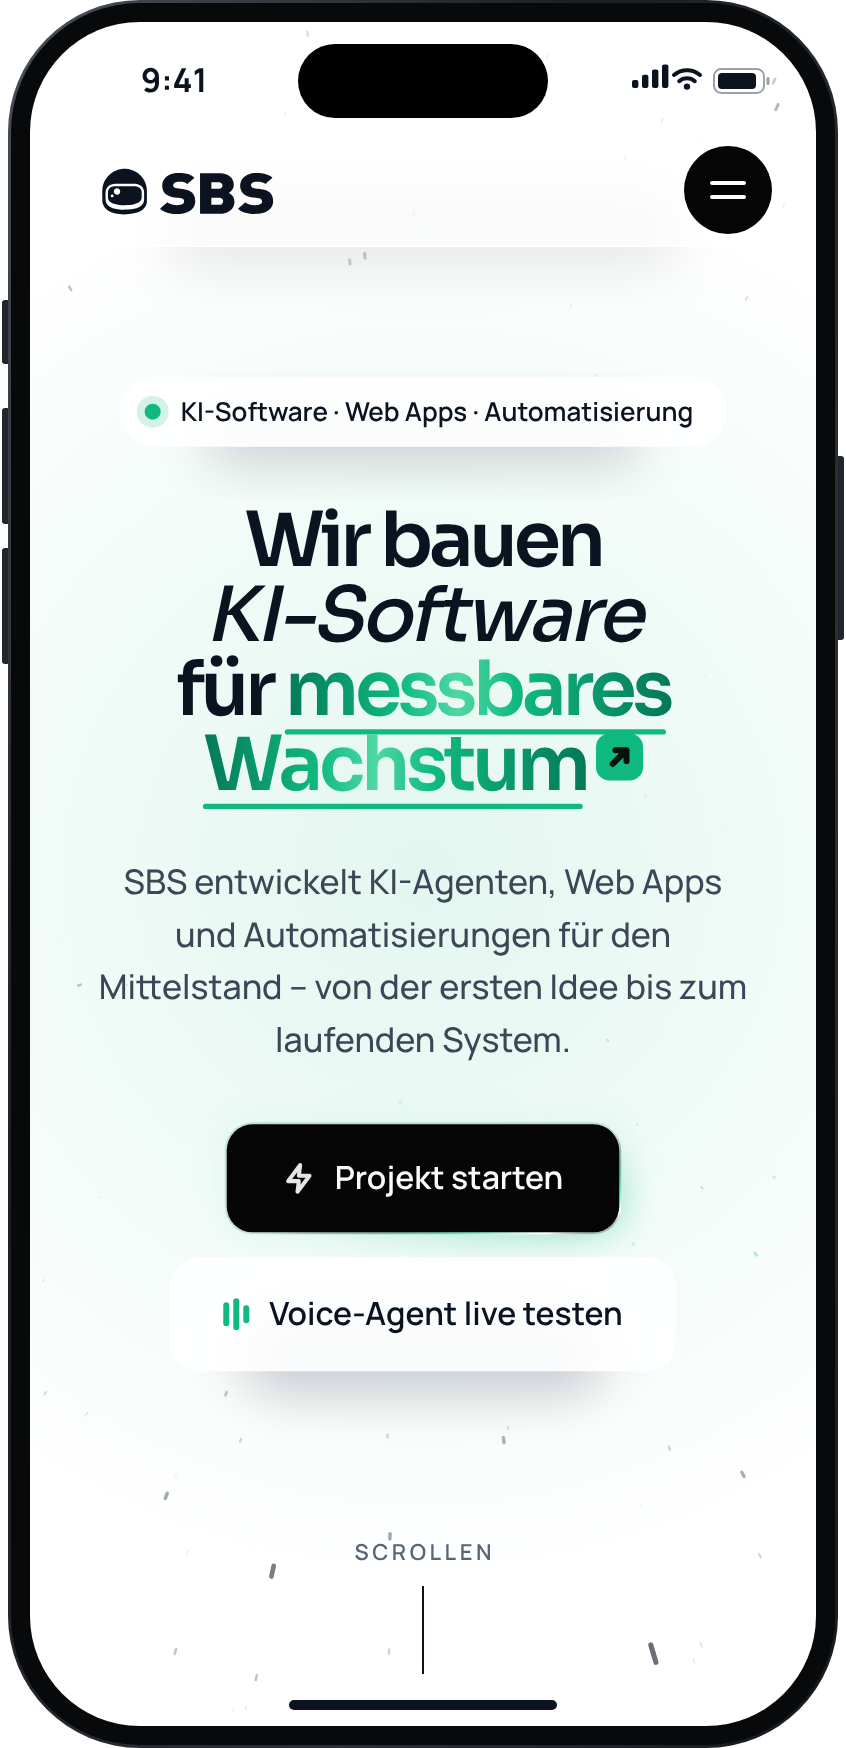
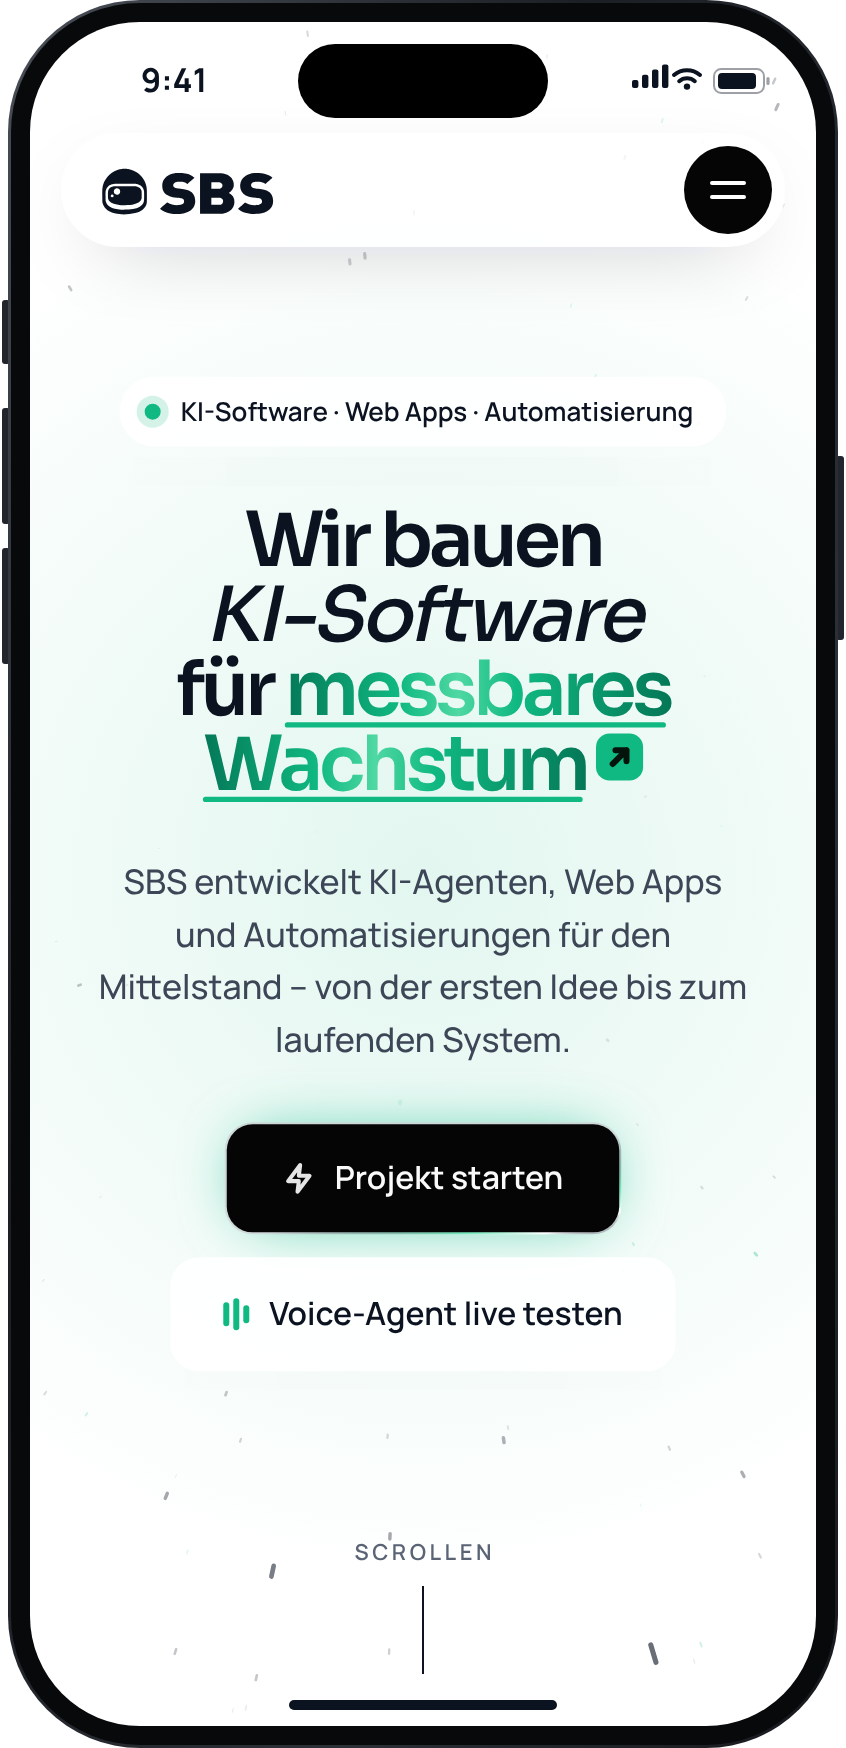
SBS phone screens: review fixes
- Voice agent: a marked run of words is one highlight box (no dark seams),
  hang-up icon is the handset turned down.
- Website: underlines sit right under the baseline, shadows follow the site's
  CSS box-shadows (offset, blur, negative spread) and, like CSS, are only
  painted outside the element, so nothing shows through the glass nav; the
  blur filters are created per radius (one was missing).
- Dashboard: secondary text darkened to pass 4.5:1, chart gridlines at
  0/30/60 so the labelled maximum stays clear.

Claude-Session: https://claude.ai/code/session_014BpiAaosksTizLkG6a3pCB

diff --git a/sbs-hero-screens/tools/screens.js b/sbs-hero-screens/tools/screens.js
@@ -6,7 +6,7 @@
   'use strict';
   const W = 393, H = 852;                                     // screen in points (iPhone-class)
   const C = {
-    ink: '#0b1220', body: '#3d4657', slate: '#5b6475', muted: '#8a93a3', line: '#e6eaf2', canvas: '#f6f8fc',
+    ink: '#0b1220', body: '#3d4657', slate: '#5b6475', muted: '#667085', line: '#e6eaf2', canvas: '#f6f8fc',
     em: '#10b981', em6: '#059669', em7: '#047857', mint: '#6ee7b7', mint50: '#e6fbf3', check: '#22c55e',
     navy: '#0b1220', peach: '#fdd9bf', peachInk: '#7c3a12', blue: '#e3e9f5', blueInk: '#1e3a8a', red: '#dc2626',
     black: '#050505', bar: '#dfe6f0',
@@ -201,12 +201,14 @@ ${screen}
       const last = lines.flatMap((l) => l.words).length - 1;
       lines.forEach((l, li) => {
         const base = top + PT + li * LH + 15;
-        for (const w of l.words) {
-          if (!marks.includes(w.i)) continue;
-          const nx = l.words.find((v) => v.i === w.i + 1);
-          const x1 = nx && marks.includes(nx.i) ? nx.x0 : w.x1;      // a marked run is one box
-          o.push(rect(bx + PX + w.x0 - 3, base - 14.5, x1 - w.x0 + 6, 19.5, 5, ki ? `fill="${C.em7}" fill-opacity=".55"` : `fill="${C.mint50}"`));
-          if (!ki) o.push(rect(bx + PX + w.x0 - 3, base + 3.6, x1 - w.x0 + 6, 1.6, 0.8, `fill="${C.em}"`));
+        // marked words: one box per run of consecutive marked words on this line
+        for (let k = 0; k < l.words.length; k++) {
+          if (!marks.includes(l.words[k].i) || (k && marks.includes(l.words[k - 1].i))) continue;
+          let e = k;
+          while (e + 1 < l.words.length && marks.includes(l.words[e + 1].i)) e++;
+          const x0 = l.words[k].x0, x1 = l.words[e].x1;
+          o.push(rect(bx + PX + x0 - 3, base - 14.5, x1 - x0 + 6, 19.5, 5, ki ? `fill="${C.em7}" fill-opacity=".55"` : `fill="${C.mint50}"`));
+          if (!ki) o.push(rect(bx + PX + x0 - 3, base + 3.6, x1 - x0 + 6, 1.6, 0.8, `fill="${C.em}"`));
         }
         if (live && l.words.some((w) => w.i === last)) {
           // the word being heard right now is still settling in
@@ -242,7 +244,7 @@ ${screen}
     const x1 = W / 2 - 6 - bw2, x2 = W / 2 + 6;
     o.push(rect(x1, by2, bw2, bh2, 14, `fill="${C.red}"`));
     const t1 = measure('Auflegen', bfont), g1 = x1 + (bw2 - (20 + 9 + t1)) / 2;
-    o.push(icon('phoneDown', g1, by2 + 14, 20, '#fff', 2), text(g1 + 29, by2 + 29.5, 'Auflegen', bfont, { fill: '#fff' }));
+    o.push(`<g transform="rotate(135 ${n(g1 + 10)} ${n(by2 + 24)})">${icon('phone', g1, by2 + 14, 20, '#fff', 2)}</g>`, text(g1 + 29, by2 + 29.5, 'Auflegen', bfont, { fill: '#fff' }));
     o.push(rect(x2, by2, bw2, bh2, 14, `fill="#fff" stroke="${C.line}"`));
     const t2 = measure('Übernehmen', bfont), g2 = x2 + (bw2 - (19 + 9 + t2)) / 2;
     o.push(icon('headset', g2, by2 + 14.5, 19, C.ink, 2), text(g2 + 28, by2 + 29.5, 'Übernehmen', bfont, { fill: C.ink }));
@@ -260,12 +262,18 @@ ${screen}
       `<radialGradient id="${id}-veil" cx="${W / 2}" cy="${0.46 * H}" r="${0.48 * W}" gradientUnits="userSpaceOnUse" gradientTransform="translate(${W / 2} ${0.46 * H}) scale(1 ${n(vr)}) translate(${-W / 2} ${-0.46 * H})"><stop offset=".3" stop-color="#fff" stop-opacity=".96"/><stop offset=".65" stop-color="#fff" stop-opacity=".55"/><stop offset="1" stop-color="#fff" stop-opacity="0"/></radialGradient>`,
       `<radialGradient id="${id}-glow" cx="${W / 2}" cy="${H / 2}" r="600" gradientUnits="userSpaceOnUse"><stop offset="0" stop-color="${C.em}" stop-opacity=".12"/><stop offset=".6" stop-color="${C.em}" stop-opacity="0"/></radialGradient>`,
       `<linearGradient id="${id}-ring" x1="0" y1="0" x2="1" y2="1"><stop offset="0" stop-color="#0f172a" stop-opacity=".15"/><stop offset=".55" stop-color="#0f172a" stop-opacity=".15"/><stop offset=".8" stop-color="${C.mint}" stop-opacity=".95"/><stop offset=".9" stop-color="#fff"/><stop offset="1" stop-color="#0f172a" stop-opacity=".15"/></linearGradient>`,
-      `<filter id="${id}-blur" x="-50%" y="-80%" width="200%" height="260%"><feGaussianBlur stdDeviation="13"/></filter>`,
-      `<filter id="${id}-emglow" x="-30%" y="-60%" width="160%" height="220%"><feDropShadow dx="0" dy="0" stdDeviation="9" flood-color="${C.em}" flood-opacity=".45"/></filter>`,
     ];
     const o = [];
-    // the site's soft "0 30px 70px -30px" shadow: a blurred, inset slab under the element
-    const under = (x, y, w, h, a = 0.2) => rect(x + w * 0.14, y + h * 0.5, w * 0.72, h * 0.7, h * 0.35, `fill="#0f172a" fill-opacity="${a}" filter="url(#${id}-blur)"`);
+    // CSS box-shadow (offset-y, blur, spread) as a blurred, offset rect: blur radius b ≈ Gaussian σ = b / 2.
+    // Like CSS, it is only painted outside the element (masked), so it never shows through the translucent glass.
+    let nMask = 0;
+    const boxShadow = (x, y, w, h, r, dy, blur, spread, col, a) => {
+      const sw = Math.max(w + 2 * spread, 2), sh = Math.max(h + 2 * spread, 2), mid = `${id}-out${nMask++}`, fid = `${id}-blur${blur / 2}`;
+      if (!defs.some((d) => d.includes(`id="${fid}"`))) defs.push(`<filter id="${fid}" x="-100%" y="-300%" width="300%" height="700%"><feGaussianBlur stdDeviation="${blur / 2}"/></filter>`);
+      defs.push(`<mask id="${mid}" maskUnits="userSpaceOnUse" x="0" y="0" width="${W}" height="${H}">${rect(0, 0, W, H, 0, 'fill="#fff"')}${rect(x, y, w, h, r, 'fill="#000"')}</mask>`);
+      return `<g mask="url(#${mid})">${rect(x + (w - sw) / 2, y + dy + (h - sh) / 2, sw, sh, Math.min(r, sh / 2), `fill="${col}" fill-opacity="${a}" filter="url(#${fid})"`)}</g>`;
+    };
+    const under = (x, y, w, h, r) => boxShadow(x, y, w, h, r, 30, 70, -30, '#0f172a', 0.35);   // 0 30px 70px -30px
     o.push(rect(0, 0, W, H, 0, 'fill="#fff"'));
     // warp star field, light variant, at rest: short streaks from the centre (same rules as the site's canvas)
     const R = rng(20251009), stars = [];
@@ -283,7 +291,7 @@ ${screen}
     o.push(island());
     // header: glass pill with logo and the two-bar menu button
     const ny = 56;
-    o.push(under(16, ny, W - 32, 56, 0.08), rect(16, ny, W - 32, 56, 28, `fill="#fff" fill-opacity=".72" stroke="#fff" stroke-opacity=".9"`));
+    o.push(boxShadow(16, ny, W - 32, 56, 28, 12, 40, -18, '#0f172a', 0.3), rect(16, ny, W - 32, 56, 28, `fill="#fff" fill-opacity=".72" stroke="#fff" stroke-opacity=".9"`));
     o.push(logo(36, ny + 16, 24, C.ink).svg);
     o.push(`<circle cx="${W - 16 - 6 - 22}" cy="${ny + 28}" r="22" fill="${C.black}"/>`);
     o.push(rect(W - 44 - 9, ny + 28 - 4.5, 18, 2, 1, 'fill="#fff"'), rect(W - 44 - 9, ny + 28 + 2.5, 18, 2, 1, 'fill="#fff"'));
@@ -299,7 +307,7 @@ ${screen}
     let y = (H - blockH) / 2;
     // tag pill with the pulsing dot
     const tx = (W - tagW) / 2;
-    o.push(under(tx, y, tagW, tagH), rect(tx, y, tagW, tagH, tagH / 2, `fill="#fff" fill-opacity=".9" stroke="#fff" stroke-opacity=".9"`));
+    o.push(under(tx, y, tagW, tagH, tagH / 2), rect(tx, y, tagW, tagH, tagH / 2, `fill="#fff" fill-opacity=".9" stroke="#fff" stroke-opacity=".9"`));
     o.push(`<circle cx="${n(tx + 16)}" cy="${n(y + 17)}" r="8" fill="${C.em}" fill-opacity=".18"/><circle cx="${n(tx + 16)}" cy="${n(y + 17)}" r="4" fill="${C.em}"/>`);
     o.push(text(tx + 30, y + 21.6, tagS, tagF));
     y += tagH + gap;
@@ -313,11 +321,11 @@ ${screen}
     defs.push(shine(`${id}-shine1`, l3x + furW + sp, l3x + l3));
     o.push(text(l3x, base(2), 'für', hF));
     o.push(text(l3x + furW + sp, base(2), 'messbares', hF, { fill: `url(#${id}-shine1)` }));
-    o.push(rect(l3x + furW + sp, base(2) + 7, mW + hF.ls, 0.07 * hs, 1.3, `fill="${C.em}"`));
+    o.push(rect(l3x + furW + sp, base(2) + 3.5, mW + hF.ls, 0.07 * hs, 1.3, `fill="${C.em}"`));
     const wW = measure('Wachstum', hF), aW = 0.62 * hs, l4 = wW + 0.12 * hs + aW, l4x = (W - l4) / 2;
     defs.push(shine(`${id}-shine2`, l4x, l4x + wW));
     o.push(text(l4x, base(3), 'Wachstum', hF, { fill: `url(#${id}-shine2)` }));
-    o.push(rect(l4x, base(3) + 7, wW + hF.ls, 0.07 * hs, 1.3, `fill="${C.em}"`));
+    o.push(rect(l4x, base(3) + 3.5, wW + hF.ls, 0.07 * hs, 1.3, `fill="${C.em}"`));
     const ax = l4x + wW + 0.12 * hs, ay = base(3) - 0.12 * hs - aW;
     o.push(rect(ax, ay, aW, aW, 0.18 * hs, `fill="${C.em}"`), icon('arrow', ax + aW * 0.15, ay + aW * 0.15, aW * 0.7, '#04140d', 3));
     y += 4 * hlh + gap;
@@ -326,12 +334,12 @@ ${screen}
     y += pLines.length * plh + gap;
     // buttons (they wrap onto two rows at phone width, as on the site)
     const b1x = (W - b1W) / 2;
-    o.push(rect(b1x, y, b1W, 56, 14, `fill="url(#${id}-ring)" filter="url(#${id}-emglow)"`));
+    o.push(boxShadow(b1x, y, b1W, 56, 14, 0, 30, -8, C.em, 0.75), rect(b1x, y, b1W, 56, 14, `fill="url(#${id}-ring)"`));
     o.push(rect(b1x + 1, y + 1, b1W - 2, 54, 13, `fill="${C.black}"`));
     o.push(icon('bolt', b1x + 29, y + 20, 16, '#E5E5E5', 2), text(b1x + 29 + 16 + 10, y + 33.5, 'Projekt starten', b1F));
     y += 56 + 12;
     const b2x = (W - b2W) / 2;
-    o.push(under(b2x, y, b2W, 56), rect(b2x, y, b2W, 56, 14, `fill="#fff" fill-opacity=".9" stroke="#fff" stroke-opacity=".9"`));
+    o.push(under(b2x, y, b2W, 56, 14), rect(b2x, y, b2W, 56, 14, `fill="#fff" fill-opacity=".9" stroke="#fff" stroke-opacity=".9"`));
     [12, 16, 9].forEach((h, i) => o.push(rect(b2x + 26 + i * 5, y + 28 - h / 2, 3, h, 1.5, `fill="${C.em}"`)));
     o.push(text(b2x + 26 + 13 + 10, y + 33.5, 'Voice-Agent live testen', b2F));
     // scroll cue
@@ -382,7 +390,7 @@ ${screen}
       o.push(card(x, y, kw, kh, 18));
       o.push(text(x + 16, y + 23, lab, F('Manrope', 600, 12, C.slate)));
       o.push(text(x + 16, y + 54, val, F('Sora', 600, 26, C.ink, -0.9)));
-      const sf = F('Manrope', 600, 11, kind ? C.em7 : C.muted);
+      const sf = F('Manrope', 600, 11, kind ? C.em7 : C.slate);
       if (kind === 'up') o.push(`<path d="M${x + 16} ${y + 70.5}l4-5 4 5z" fill="${C.em}"/>`);
       if (kind === 'ok') o.push(`<circle cx="${x + 20}" cy="${y + 67.5}" r="5" fill="${C.check}"/>`, icon('check', x + 16.6, y + 64.1, 6.8, '#fff', 1.6));
       o.push(text(x + 16 + (kind ? 13 : 0), y + 71.5, sub, sf));
@@ -393,7 +401,7 @@ ${screen}
     o.push(text(40, cyy + 28, 'Anrufe pro Tag', F('Manrope', 700, 14, C.ink)), text(W - 40, cyy + 28, '290 gesamt', F('Manrope', 600, 12, C.muted), { anchor: 'end' }));
     const days = [['Fr', 52], ['Sa', 21], ['So', 11], ['Mo', 63], ['Di', 71], ['Mi', 58], ['Heute', 14]];
     const px0 = 66, px1 = W - 40, base = cyy + chH - 32, top = cyy + 48, vmax = 80;
-    [0, 40, 80].forEach((v) => {
+    [0, 30, 60].forEach((v) => {
       const gy = base - (base - top) * v / vmax;
       o.push(`<path d="M${px0} ${n(gy)}H${px1}" stroke="${v ? C.line : '#d5dbe6'}" stroke-width="1"/>`, text(px0 - 10, gy + 4, String(v), F('Manrope', 600, 10.5, C.muted), { anchor: 'end' }));
     });
